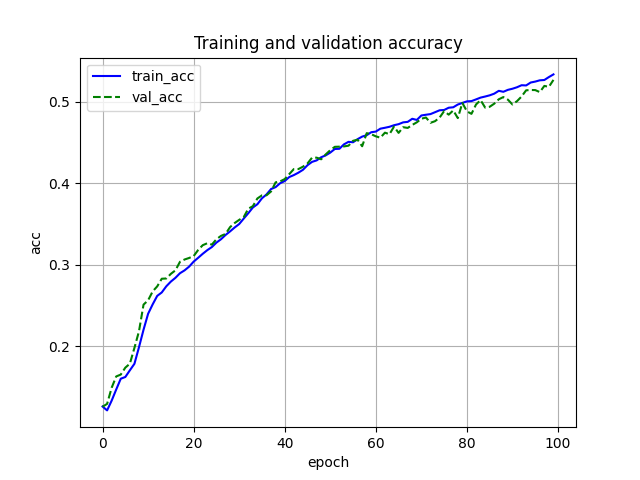
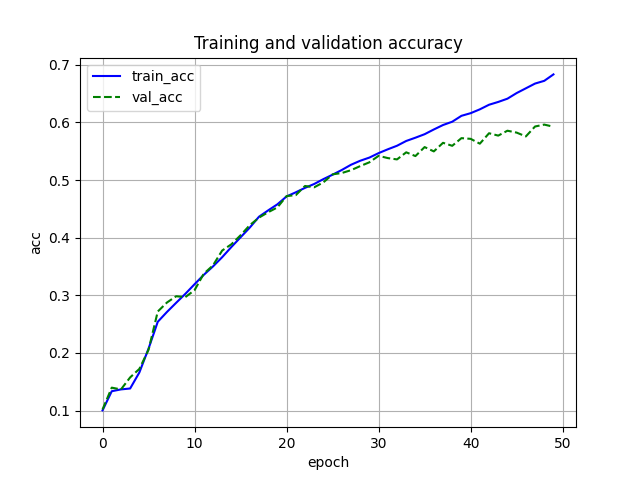
cnn_cifar10

diff --git a/cifar10/cnn/cnn_cifar10.py b/cifar10/cnn/cnn_cifar10.py
@@ -10,14 +10,14 @@ train_Data = dsets.CIFAR10(
     root='../data_cifar10',
     train=True,
     transform=transforms.ToTensor(),
-    download=False
+    download=True
 )
 
 test_data = dsets.CIFAR10(
     root='../data_cifar10',
     train=False,
     transform=transforms.ToTensor(),
-    download=False
+    download=True
 )
 
 train_data, valid_data = torch.utils.data.random_split(train_Data, [40000, 10000])
@@ -50,19 +50,20 @@ class CNN(nn.Module):
 
     def __init__(self):
         super(CNN, self).__init__()
-        self.conv1 = nn.Conv2d(3, 64, 5)   #64 filters 5*5
+        self.conv1 = nn.Conv2d(3, 64, 3)   #64 filters 3*3
+        self.conv2 = nn.Conv2d(64, 64, 3)
         self.pool = nn.MaxPool2d(2)        #2*2
-        self.conv2 = nn.Conv2d(64, 256, 3) #256 filters 3*3
-        self.conv3 = nn.Conv2d(256, 256, 3)
-        self.fc1 = nn.Linear(10 * 10 * 256, 1024)
+        self.conv3 = nn.Conv2d(64, 128, 3) #128 filters 3*3
+        self.fc1 = nn.Linear(6 * 6 * 128, 1024)
         self.fc2 = nn.Linear(1024, 10)
 
     def forward(self, x):
         x = F.relu(self.conv1(x))
-        x = self.pool(x)
         x = F.relu(self.conv2(x))
+        x = self.pool(x)
         x = F.relu(self.conv3(x))
-        x = x.view(-1, 10*10*256)
+        x = self.pool(x)
+        x = x.view(-1, 6*6*128)
         x = F.relu(self.fc1(x))
         return self.fc2(x)
 
@@ -71,13 +72,13 @@ net = CNN().to(device)
 
 #loss:CrossEntropy
 criterion = nn.CrossEntropyLoss()
-#optimizer:SGD, learning rate:0.005
-optimizer = optim.SGD(net.parameters(), lr=0.0005)
+#optimizer:SGD, learning rate:0.002
+optimizer = optim.SGD(net.parameters(), lr=0.002)
 
 #training
 
 #50epochs
-num_epochs = 100
+num_epochs = 50
 
 train_loss_list, train_acc_list, val_loss_list, val_acc_list = [], [], [], []
 
@@ -155,4 +156,3 @@ plt.ylabel('acc')
 plt.title('Training and validation accuracy')
 plt.grid()
 fig_acc.savefig("cnn_cifar10_acc.png")
-
